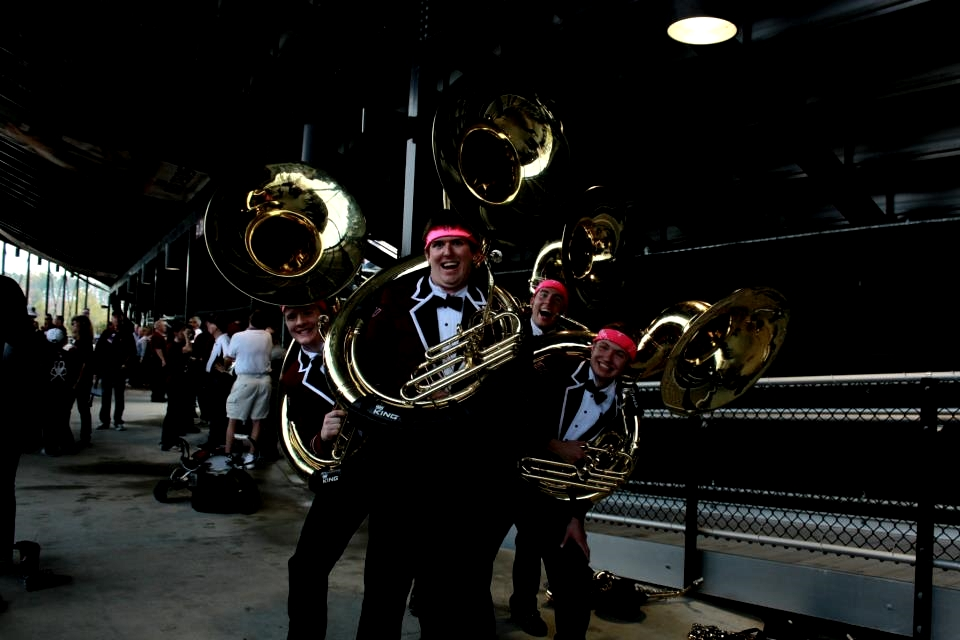
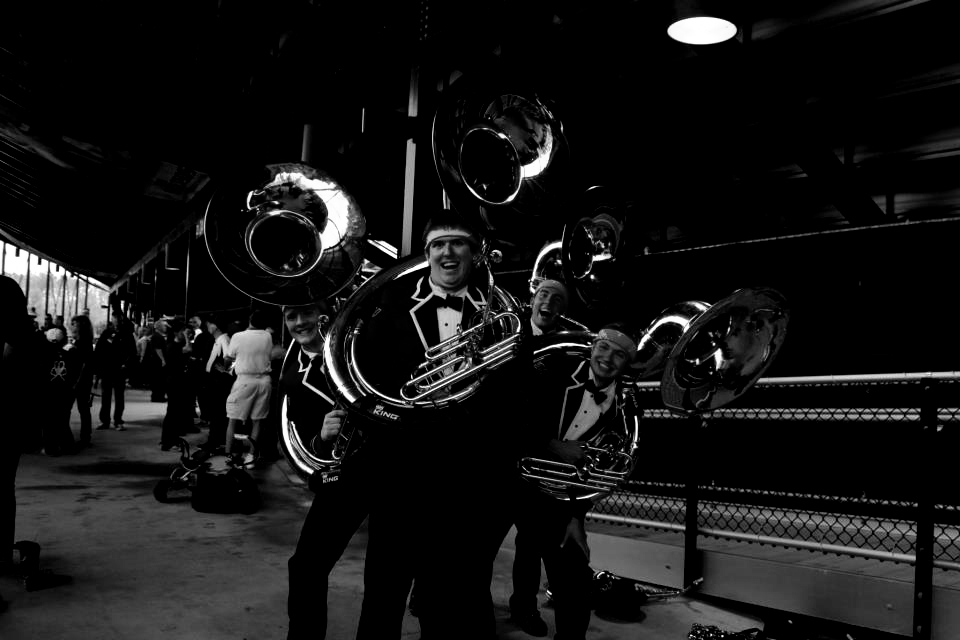
commented out the bower code that was erroring out the css file for now. edited background image on login a bit

diff --git a/public/stylesheets/style.less b/public/stylesheets/style.less
@@ -1,4 +1,4 @@
-@import '../../bower_components/bootstrap/less/bootstrap.less';
+//@import '../../bower_components/bootstrap/less/bootstrap.less';
 
 body {
   margin:0px;
@@ -20,7 +20,6 @@ a {
 .login-overlay {
   background: rgba(128,0,0,.6);
   height: 100vh;
-  float: center;
 }
 
 .login-bar {
